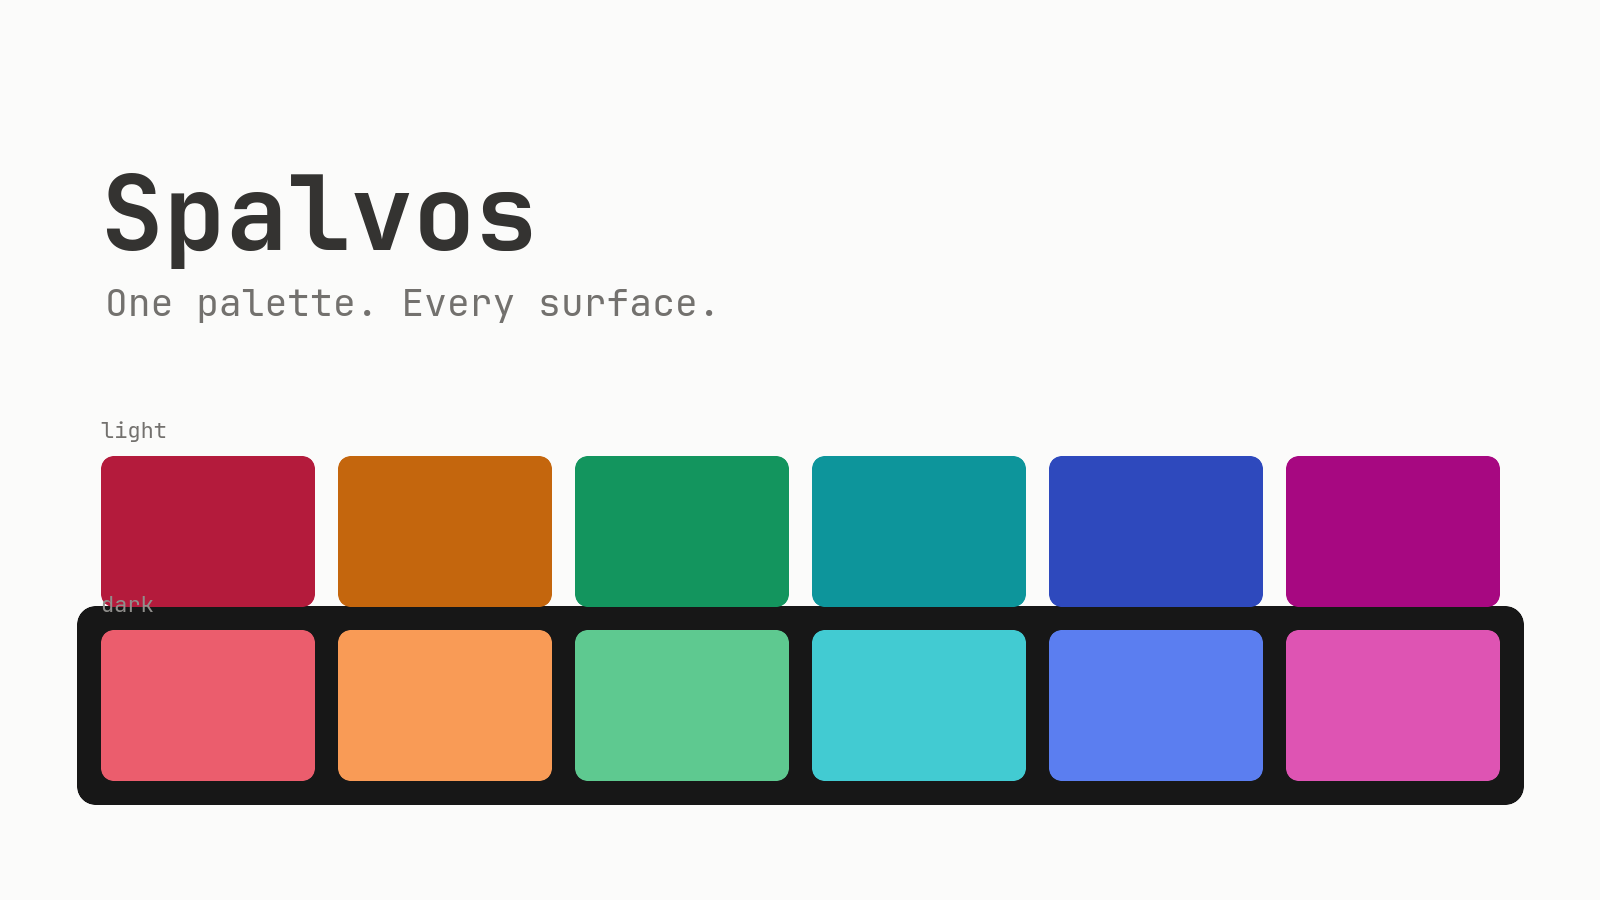
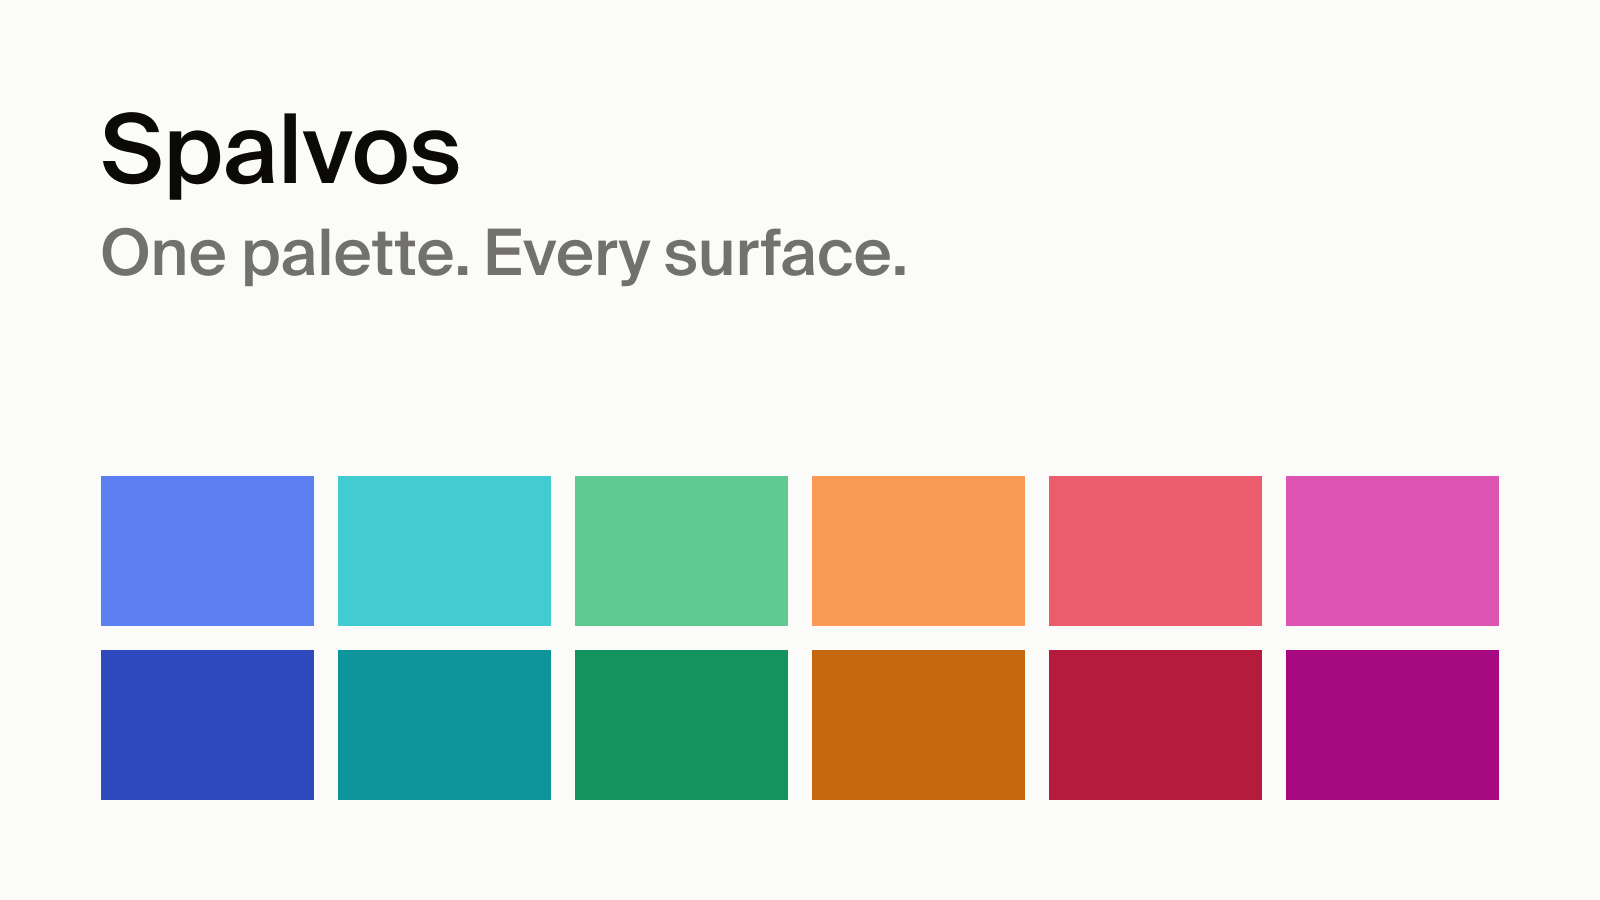
docs: add cover image to README

diff --git a/README.md b/README.md
@@ -1,3 +1,5 @@
+<img src="assets/cover.png" alt="Spalvos — one palette, every surface." width="100%">
+
 # Spalvos
 
 **One palette. Every surface.**
